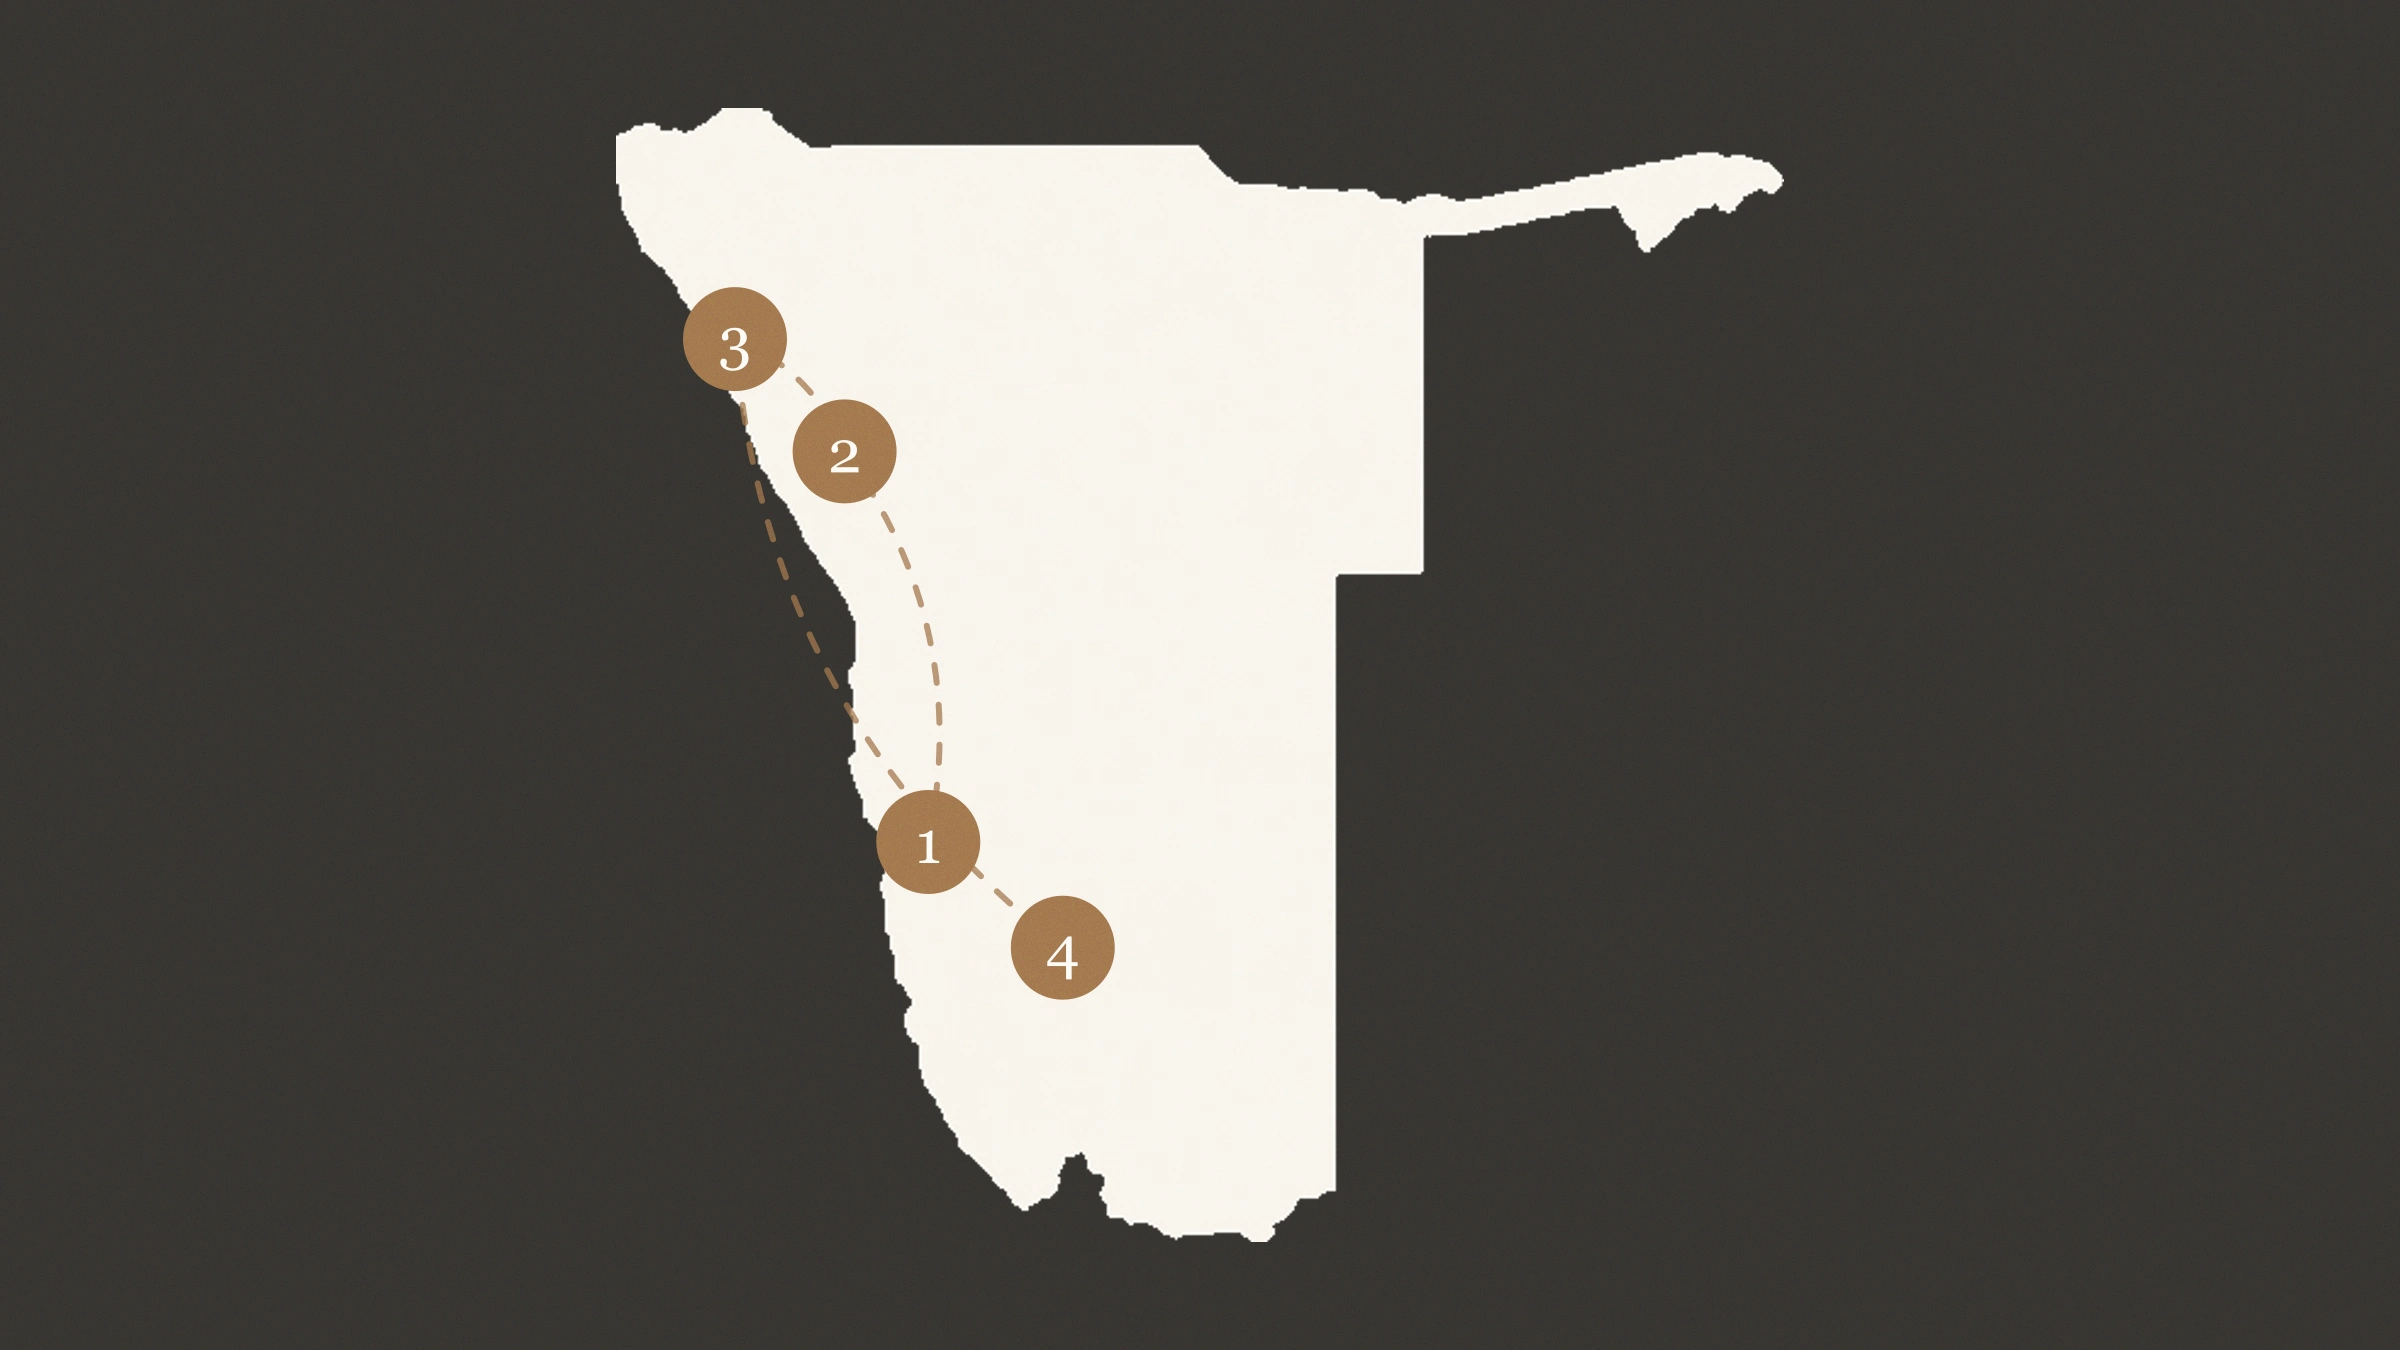
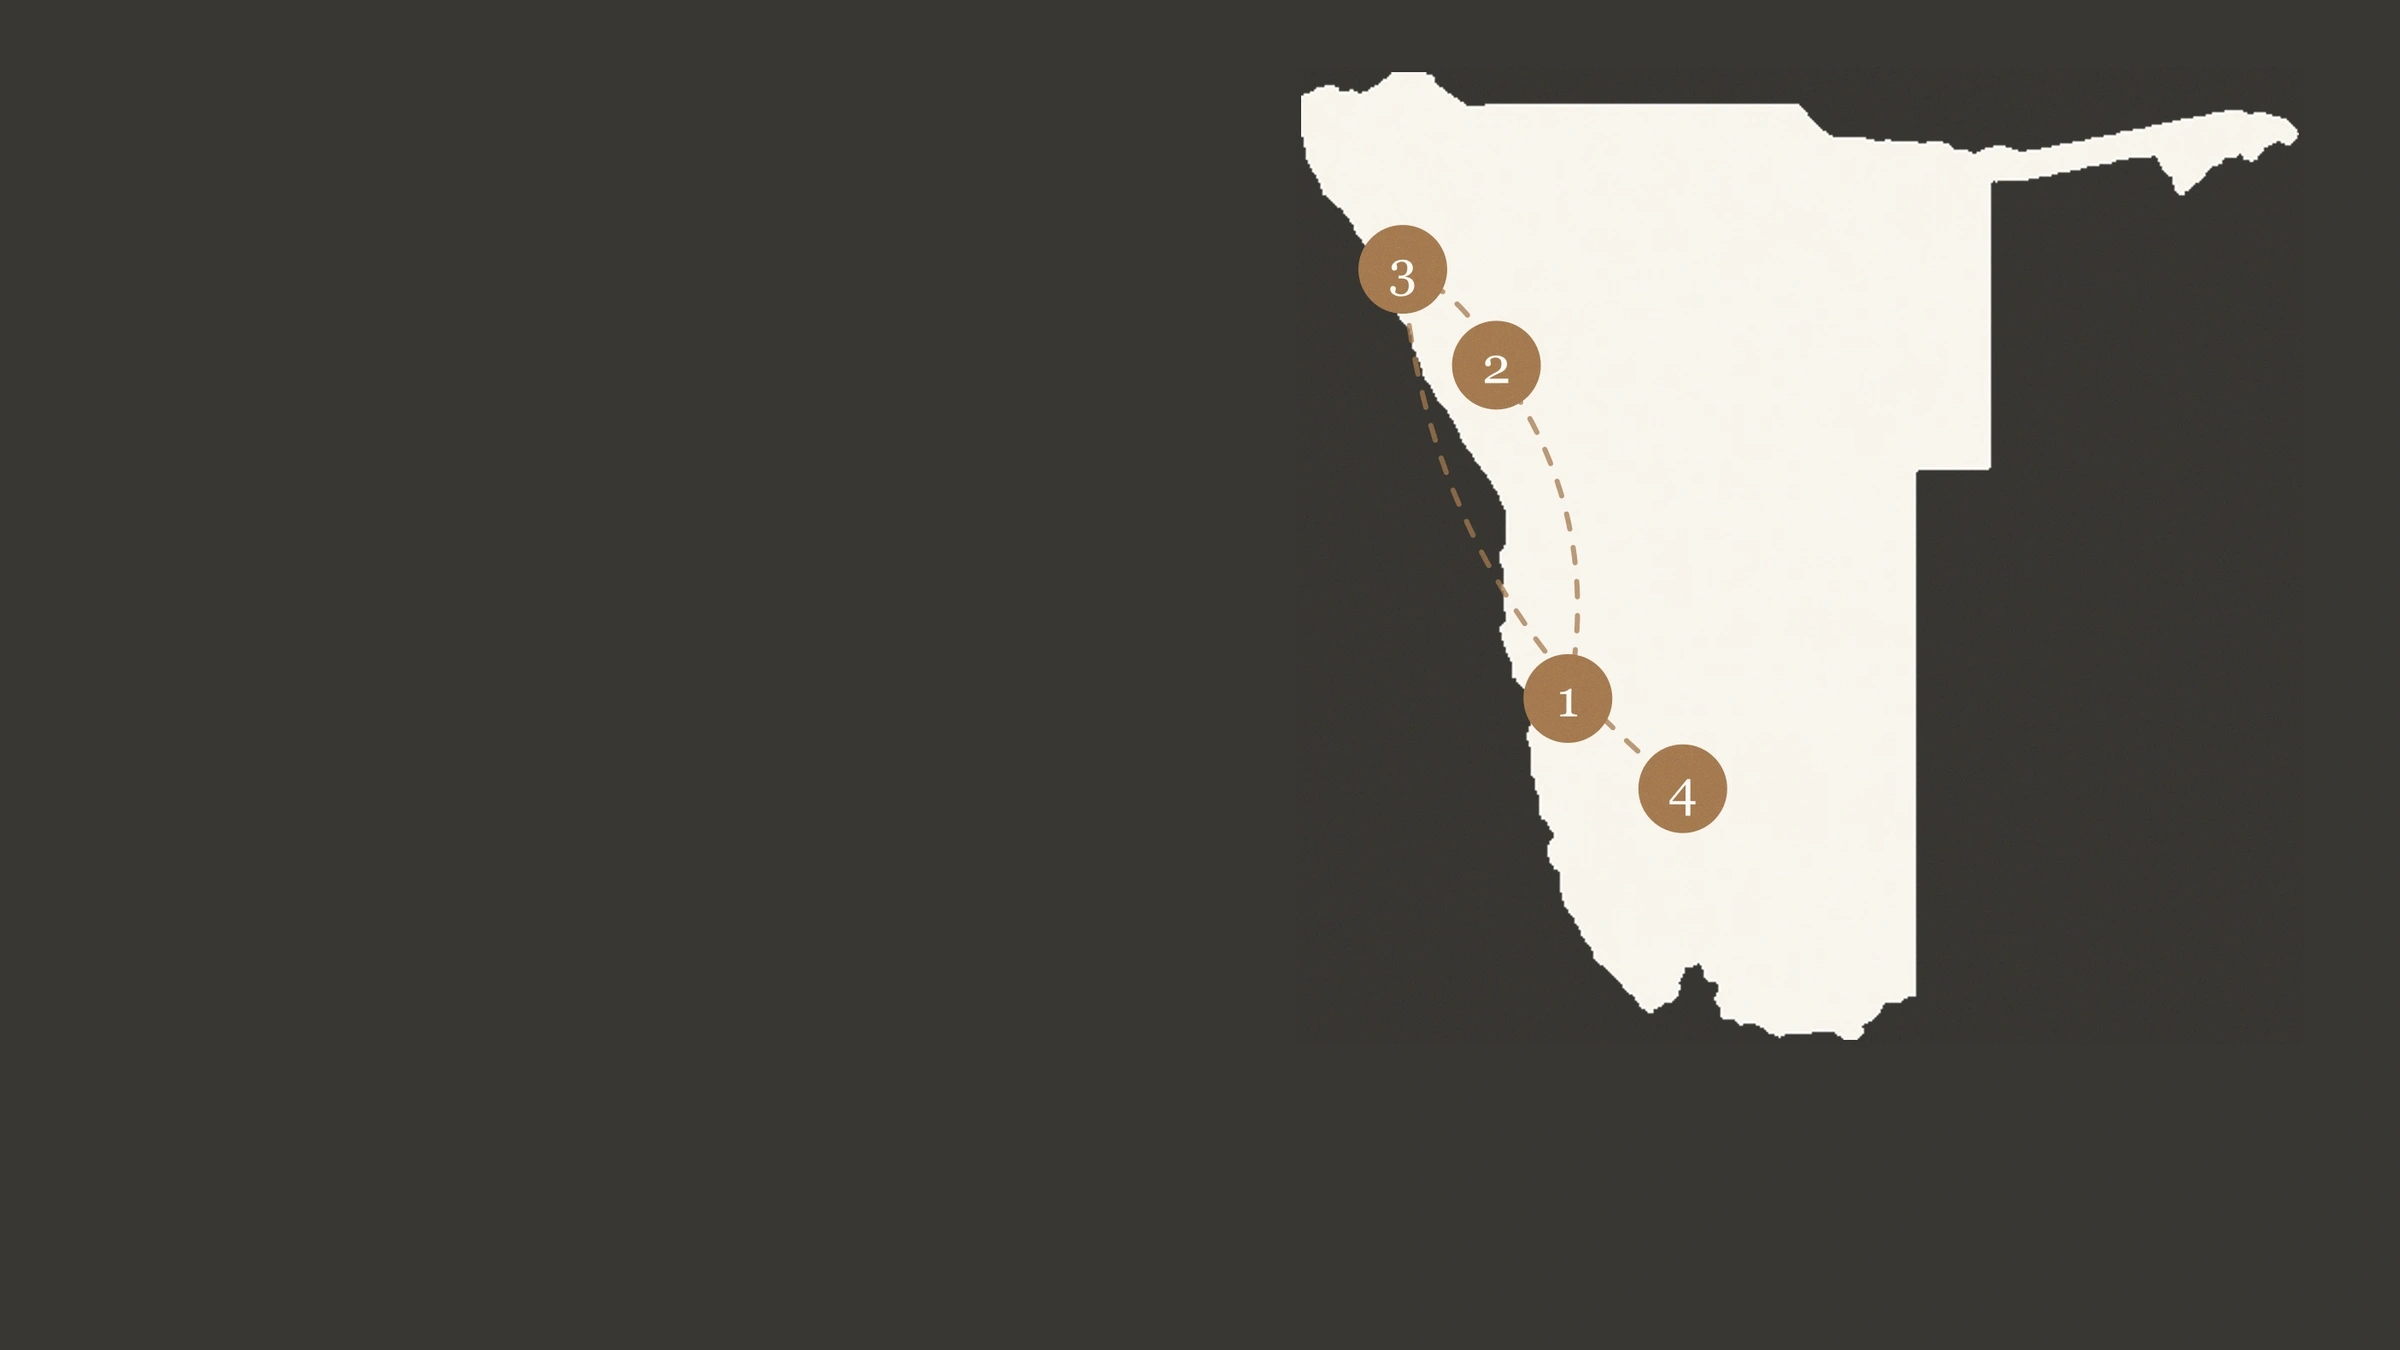
Namibie : Deadvlei, nouvelle expérience Ongava (pistage des rhinocéros), carte du bento recadrée

diff --git a/src/lib/content/registry.ts b/src/lib/content/registry.ts
@@ -193,6 +193,7 @@ import { experience as marcheBushmenSan } from "@/content/experiences/marche-bus
 import { experience as safariNocturneProjecteur } from "@/content/experiences/safari-nocturne-projecteur";
 import { experience as echappeeSkeletonCoast } from "@/content/experiences/echappee-skeleton-coast";
 import { experience as parcNamibNaukluft } from "@/content/experiences/parc-namib-naukluft";
+import { experience as ongavaPistageRhinoceros } from "@/content/experiences/ongava-pistage-rhinoceros";
 import { experience as sossusvleiDeadvlei } from "@/content/experiences/sossusvlei-deadvlei";
 import { experience as valleeRoisTombesFermees } from "@/content/experiences/vallee-rois-tombes-fermees";
 import { experience as montgolfiereNecropoleThebaine } from "@/content/experiences/montgolfiere-necropole-thebaine";
@@ -994,6 +995,7 @@ export const experiences: Record<string, Experience> = toMap([
   observationEtoilesWadiRum,
   olduvaiPaleoanthropologue,
   parcNamibNaukluft,
+  ongavaPistageRhinoceros,
   pecheMoorea,
   pecheMoucheSkye,
   rizieresIfugao,

diff --git a/src/content/destinations/namibie.tsx b/src/content/destinations/namibie.tsx
@@ -137,10 +137,10 @@ export const destination: Destination = {
       eyebrow: "Expériences et activités en Namibie",
       heading: "Trois terrains inscrits à l'itinéraire",
       description:
-        "Trois sorties portent le voyage. On part d'abord vers la Skeleton Coast, en avion léger puis en 4x4 par la vallée de la Hoanib. On traverse ensuite le Namib-Naukluft, des sommets du Naukluft aux plaines de galets. On monte enfin sur les dunes de Sossusvlei, avant la marche jusqu'à Deadvlei.",
+        "Trois sorties portent le voyage. On part d'abord vers la Skeleton Coast, en avion léger puis en 4x4 par la vallée de la Hoanib. On piste ensuite les rhinocéros à pied dans la réserve d'Ongava, en bordure d'Etosha. On monte enfin sur les dunes de Sossusvlei, avant la marche jusqu'à Deadvlei.",
       slugs: [
         "echappee-skeleton-coast",
-        "parc-namib-naukluft",
+        "ongava-pistage-rhinoceros",
         "sossusvlei-deadvlei",
       ],
     },

diff --git a/src/content/experiences/ongava-pistage-rhinoceros.tsx b/src/content/experiences/ongava-pistage-rhinoceros.tsx
@@ -1,0 +1,15 @@
+import type { Experience } from "@/lib/content/types";
+
+export const experience: Experience = {
+  slug: "ongava-pistage-rhinoceros",
+  name: "Pistage des rhinocéros à pied à Ongava",
+  blurb:
+    "Ongava est une réserve privée en bordure du parc d'Etosha, consacrée à la protection des rhinocéros blancs et noirs. Accompagné d'un pisteur, on approche les animaux à pied, en silence, à quelques dizaines de mètres. Le soir, on observe le point d'eau depuis la terrasse du lodge.",
+  keywords: ["namibie", "ongava", "etosha", "rhinocéros", "safari à pied"],
+  heroImage: {
+    src: "/destination/namibie/xp-ongava.webp",
+    alt: "Deux rhinocéros blancs dans les herbes sèches d'Ongava, vus à pied derrière le bord d'un chapeau de safari, Namibie",
+  },
+  destinationSlugs: ["namibie"],
+  sections: [],
+};

diff --git a/src/content/experiences/sossusvlei-deadvlei.tsx b/src/content/experiences/sossusvlei-deadvlei.tsx
@@ -8,7 +8,7 @@ export const experience: Experience = {
   keywords: ["namibie", "sossusvlei", "deadvlei", "dune 45", "sesriem"],
   heroImage: {
     src: "/destination/namibie/xp-sossusvlei.webp",
-    alt: "Quatre marcheurs traversant une plaine du Namib dans la lumière du soir, Namibie",
+    alt: "Acacias morts sur l'argile blanche de Deadvlei, au pied des dunes rouges, Namibie",
   },
   destinationSlugs: ["namibie"],
   sections: [],

diff --git a/references/destination/namibie/SOURCES.md b/references/destination/namibie/SOURCES.md
@@ -49,3 +49,6 @@ Quatre visuels n'ont pas suivi le traitement standard :
 | `xp-kalahari-1.webp` | IA d'après `xp-kalahari-1-ref.jpg` (doublesens.fr), référence choisie par Thea le 09/10/2026 | |
 | `xp-kalahari-2.webp` | IA d'après `xp-kalahari-2-ref.jpg` (stockfood.com, oryx), recadrée en portrait | |
 | `xp-skeleton-coast.webp` | IA d'après `xp-skeleton-coast-ref.jpg` (webflow CDN), recadrée en carré | |
+| `xp-sossusvlei.webp` | IA d'après `xp-sossusvlei-ref.jpg` (generationvoyage.fr, Deadvlei), recadrée en carré | |
+| `xp-ongava.webp` | Photo de Thea (IMG_0342, rhinocéros à Ongava), recadrée en carré ; bord de chapeau flou ajouté par IA au premier plan à sa demande | Exuma |
+| `bento-map.webp` | Carte existante réduite et placée en haut à droite (09/10/2026) | |
